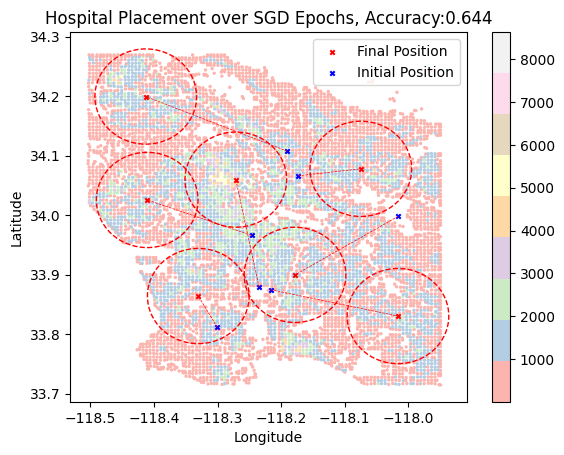
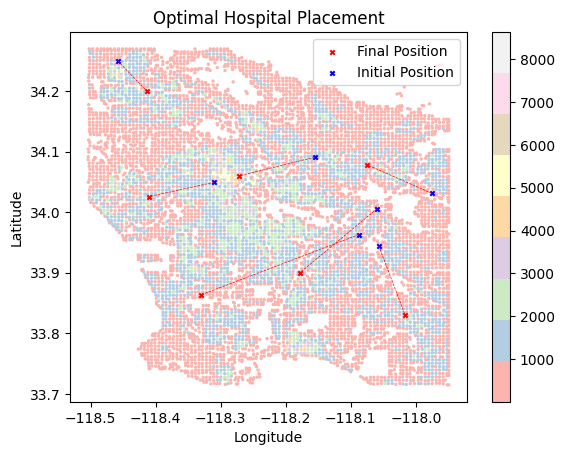
added hospital distribution information

diff --git a/hospital_distribution.md b/hospital_distribution.md
@@ -6,4 +6,39 @@ This project aims to minimize the distance people have to travel to get to a hos
 <em>A plot of optimal hospital locations. The blue stars represent the initial position of the hospitals, and the red stars represent the locations after SGD optimization.</em>
 
 ### Inspiration
+Getting to the hospital is a matter of life or death. Optimally placing hospitals 
 
+### Dataset
+The population density map of LA is from Meta's Data for Good team, which can be found [here](https://dataforgood.facebook.com/dfg/tools/high-resolution-population-density-maps). The data was obtained using satellite images and census data. 
+
+### Approach
+- We start by randomly placing n hospitals on the city's map
+<img src='images/init_hospital_placement.png'>
+- Then we find the distance between a density point and its nearest hospital
+<img src='images/min_distance_hospital.png'>
+- Apply the sigmoid function to each minimum distance to calculate loss
+- Apply the SGD loss minimization step to calculate new hospital locations
+- Do this for 100 epochs
+
+### Results
+<img src='images/final_hospital_placement.png'>
+<em>The image shows the initial and final positions of the hospitals. The red circles are used to calculate coverage, the number of people inside the radius of at least one hospital divided by the total number of people</em>
+<br></br>
+coverage is defined as the number of people inside the radius of at least one hospital divided by the total number of people. With our method, using 7 hospitals results in an coverage of 64%. 
+<br></br/>
+We compare this to the coverage obtained by the top 7 hospitals in the LA county, which only has an coverage of 41%
+<img src='images/top_hospitals_placement.png'>
+<em>Top hospitals according to <a href=https://health.usnews.com/best-hospitals/area/los-angeles-ca>US News</a></em>
+<br></br>
+
+
+### Future Work
+#### Account for Hospital Max Occupancy
+With the current method, each hospital can theoreticaly serve an infinite amount of people, but this is not realistic. Hospitals have limits as to how many people they can serve.
+#### Account for cost of Travel
+The cost of travel is different for each person, whether that is time or money. For example, someone who owns a car and can take time off from work can easily get to the hospital. Someone who does not own a car and cannot take time off from work cannot get to the hospital as easily. 
+#### Account for Traffic Routes
+Traffic affects the time it takes to get to a hospital
+
+### Try it Out
+Check out the Google Colab [here](https://colab.research.google.com/drive/1NaczA0OB5WlobMhQ0ZK-92yGP_6CpvaW#scrollTo=FDhwSLKhV1BS)

diff --git a/sample_page.md b/sample_page.md
@@ -1,4 +1,4 @@
-## This can be your internal website page / project page
+<h1>Internal Displacement from Natural Disasters</h1>
 
 **Project description:** Our Tableau site displays interactive graphs that teaches users about the number of people that were forced to move because of natural disasters throughout the world. Through our visualizations, we hope to inspire people to take action against climate change
 
